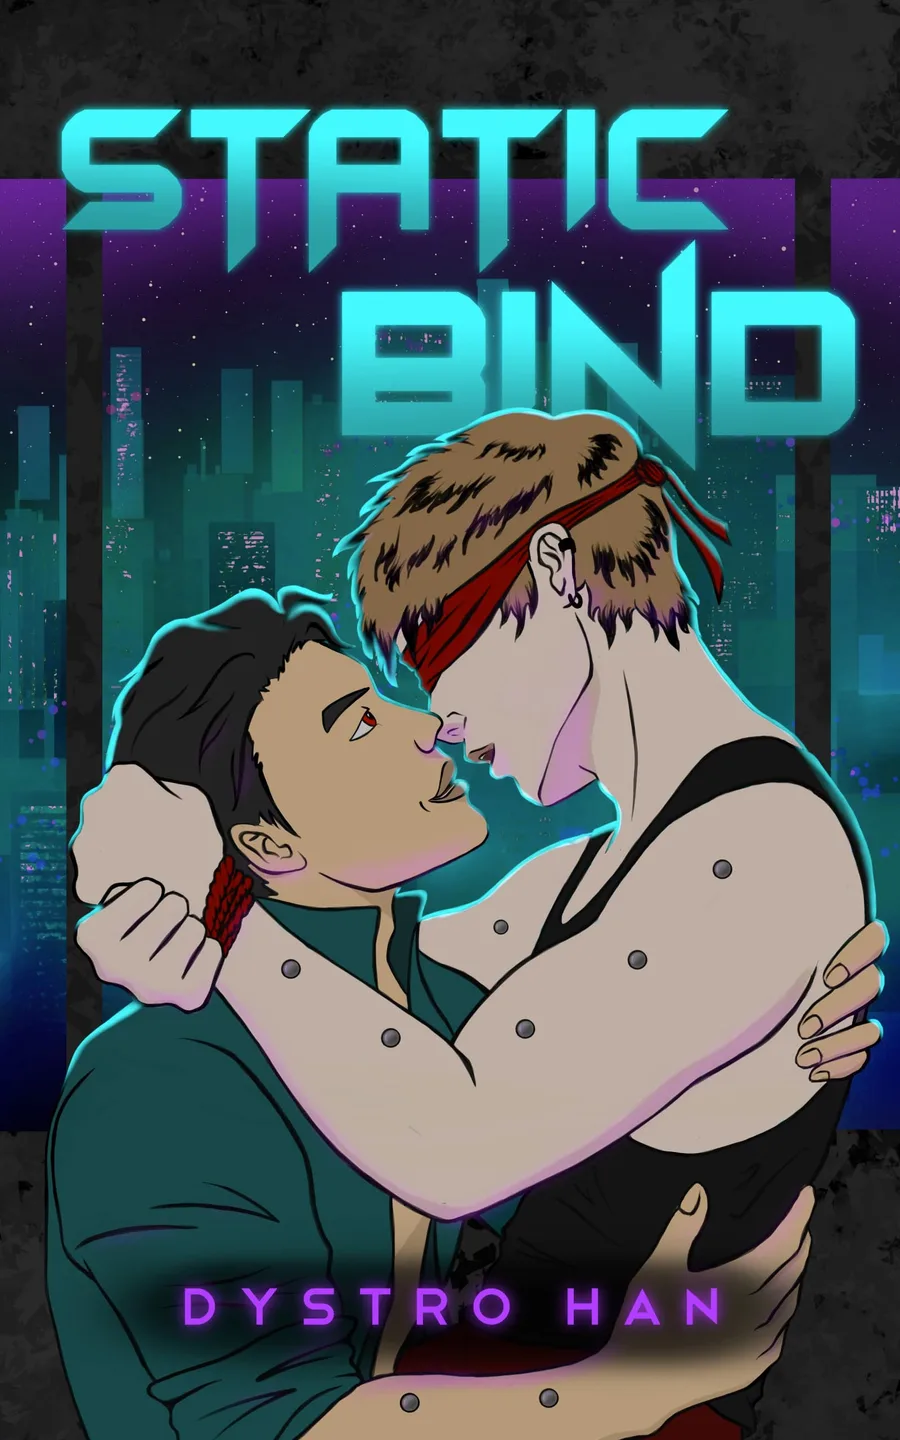
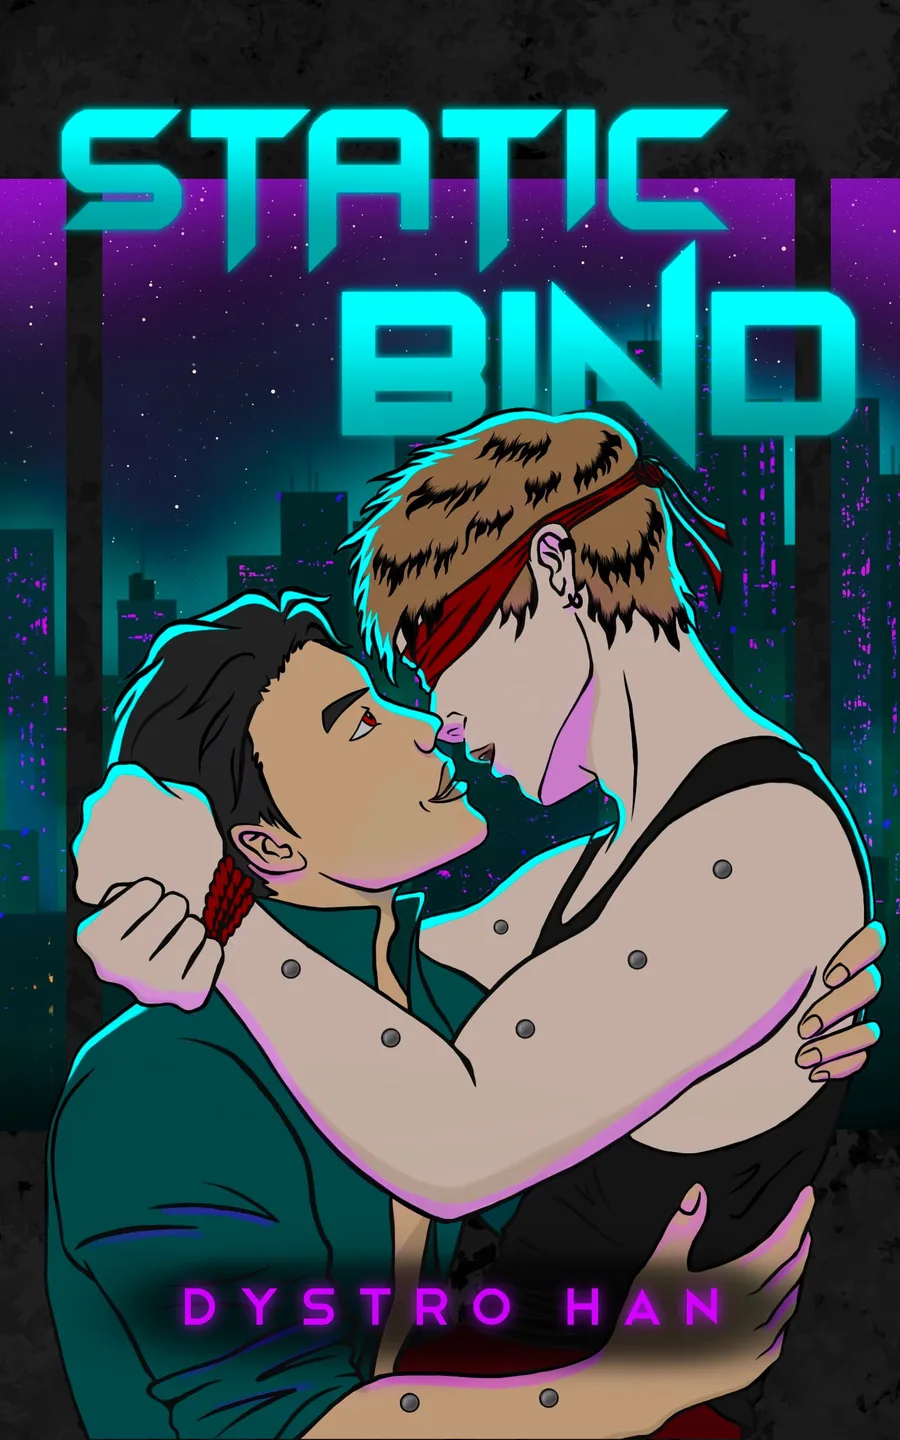
add content, update cover

diff --git a/app/lib/books.ts b/app/lib/books.ts
@@ -37,7 +37,7 @@ export type Edition = {
   retailerLinks: RetailerLink[];
 };
 
-export type BookStatus = "ARCs Available" | "Available Now" | "Preorder" | "Coming Soon";
+export type BookStatus = "ARCs Available" | "ALCs Available" | "Available Now" | "Preorder" | "Coming Soon";
 
 export type Series = {
   slug: string;
@@ -95,16 +95,17 @@ export const BOOKS: Book[] = [
     shortTitle: "Static Bind",
     seriesSlug: "hack-and-harrow",
     seriesPosition: null,
-    status: "ARCs Available",
+    status: "Available Now",
     releaseDate: "September 14, 2026",
     blurb: "Two dangerous mercenaries on the run make a sexy wager on an impromptu side job and avoid having revelations about their hopeless emotional entanglement with each other. Explore the world of Hack & Harrow with this standalone short.",
     description:
-      "**Two fugitive mercenaries. One steamy wager. Enough denial to reduce competent killers to obsessive idiots.** \n\n It's been a long day. Tiernan just wants to settle in for the night, maybe have an emotionally detached bang with his unlikely, smokin' hot ally, and take a long, luxurious bath… not that he has access to a bathtub. So of course Danil has to drag things out by proposing this dumb kinky bet that pits them against each other in an unscheduled side heist. That smartass enigma of a hitman knows Tiernan can't turn down a little competition, no matter how tired he is.\n\n Danil has always been a makeout guy. Sure, sex is great, but there's just something electrifying about the ridiculous act of mashing your face into someone else's. Just his luck that his unbelievably sexy nemesis-with-benefits is all but allergic to kissing. Their time on the run together has been a thrill -- Tiernan is lethally adept, holds his own against Danil's nonstop heckling, and is absolutely wild in bed. If only there were about five hundred times more kissing, then this would be the perfect temporary arrangement. He couldn't possibly want any more out of this, right? \n\n Static Bind is a high-heat, emotionally messy, and danger-packed bonus story from an multi-part action-romance series set in dystopian cyberpunk Boston, starring these two violently unhinged men who would rather be tied up than face their feelings.",
+      // "**Two fugitive mercenaries. One steamy wager. Enough denial to reduce competent killers to obsessive idiots.** \n\n It's been a long day. Tiernan just wants to settle in for the night, maybe have an emotionally detached bang with his unlikely, smokin' hot ally, and take a long, luxurious bath… not that he has access to a bathtub. So of course Danil has to drag things out by proposing this dumb kinky bet that pits them against each other in an unscheduled side heist. That smartass enigma of a hitman knows Tiernan can't turn down a little competition, no matter how tired he is.\n\n Danil has always been a makeout guy. Sure, sex is great, but there's just something electrifying about the ridiculous act of mashing your face into someone else's. Just his luck that his unbelievably sexy nemesis-with-benefits is all but allergic to kissing. Their time on the run together has been a thrill -- Tiernan is lethally adept, holds his own against Danil's nonstop heckling, and is absolutely wild in bed. If only there were about five hundred times more kissing, then this would be the perfect temporary arrangement. He couldn't possibly want any more out of this, right? \n\n Static Bind is a high-heat, emotionally messy, and danger-packed bonus story from an multi-part action-romance series set in dystopian cyberpunk Boston, starring these two violently unhinged men who would rather be tied up than face their feelings.",
+      "**Static Bind is a standalone short story introduction to the Hack & Harrow series, which features Danil and Tiernan as the main characters for the duration of the 8-installment saga. Get a taste for the world, the action, and the chemistry in this spicy, snack-sized story!**\n\n**Two fugitive mercenaries. One steamy wager. Enough denial to reduce competent killers to obsessive idiots.**\n\nIt’s been a long day. Tiernan just wants to settle in for the night, maybe have an emotionally detached bang with his unlikely, smokin' hot ally, and take a long, luxurious bath… not that he has access to a bathtub. So of course Danil has to drag things out by proposing this dumb kinky bet that pits them against each other in an unscheduled side heist. That smartass enigma of a hitman knows Tiernan can’t turn down a little competition, no matter how tired he is.\n\nDanil has always been a makeout guy. Sure, sex is great, but there's just something electrifying about the ridiculous act of mashing your face into someone else's. Just his luck that his unbelievably sexy nemesis-with-benefits is all but allergic to kissing. Their time on the run together has been a thrill – Tiernan is lethally adept, holds his own against Danil's nonstop heckling, and is absolutely wild in bed. If only there were about five hundred times more kissing, then this would be the perfect temporary arrangement. He couldn't possibly want any more out of this, right?\n\nStatic Bind is a high-heat, emotionally messy, and danger-packed bonus story from an multi-part action-romance series set in dystopian cyberpunk Boston, starring these two violently unhinged men who would rather be tied up than face their feelings.\n\n^^**Tropes**@@$idiots in love$nonstop banter$(ex) rivals with benefits$sarcastic panther x goofy doberman$diametrically opposed intimacy needs$morally gray couple$flirting through violence$partners/rivals in crime$caretaking$obsession$competence attraction$progression and level-up mechanics@@",
     isbn13: { display: "979-8-952631-00-7 (ebook)", value: "9798952631007" },
     coverImage: "/img/books/hack-and-harrow/static-bind_cover_art.jpg",
     coverImageThumb: "/img/books/hack-and-harrow/static-bind_cover_art_small.webp",
     coverImageAlt:
-      "Static Bind ARC cover art: two men entangled together, one with a glowing red eye, against a red glitch-effect cyberpunk cityscape",
+      "Static Bind cover art: two men entangled together, one with a glowing red eye, against a red glitch-effect cyberpunk cityscape",
     coverIsPlaceholder: false,
     keywords: [
       "Static Bind: idiots in love banter",

diff --git a/app/components/formatted-text.tsx b/app/components/formatted-text.tsx
@@ -10,6 +10,13 @@ function renderInline(text: string) {
     ) : 
     part.startsWith("%%") && part.endsWith("%%") ? (
       <i key={i}>{part.slice(2, -2)}</i>
+    ) : 
+    part.startsWith("@@") && part.endsWith("@@") ? (
+      <ul className="list-disc pl-4 pt-2" key={i}>        
+        {part.slice(2, -2).split("$").map((p, j) => (
+          p != "" && p !== " " ? <li key={j}>{p}</li> : null
+        ))}
+      </ul>
     ) : (
       part
     )
@@ -35,9 +42,12 @@ export function FormattedText({ text, className }: FormattedTextProps) {
   const paragraphs = text.trim().split(/\n{2,}/);
 
   return (
-    <div className={className ? `space-y-3 ${className}` : "space-y-3"}>
+    <div className={className ? `space-y-4 ${className}` : "space-y-4"}>
       {paragraphs.map((paragraph, i) => (
-        <p key={i}>{renderInline(paragraph)}</p>
+        paragraph.startsWith("^^") ?
+          <div key={i} className="pt-2">{renderInline(paragraph.slice(2))}</div>
+        :
+          <p key={i}>{renderInline(paragraph)}</p>
       ))}
     </div>
   );

diff --git a/app/books/[slug]/page.tsx b/app/books/[slug]/page.tsx
@@ -87,7 +87,7 @@ export default async function BookPage({ params }: Props) {
           / <span className="text-foreground">{book.title}</span>
         </nav>
 
-        <div className="flex flex-col justify-center items-center lg:grid gap-10 lg:grid-cols-[320px_1fr]">
+        <div className="flex flex-col justify-center items-start lg:grid gap-10 lg:grid-cols-[320px_1fr]">
           <BookCover image={book.coverImageThumb} alt={book.coverImageAlt} isPlaceholder={book.coverIsPlaceholder}/>
 
           <div className="flex flex-col gap-5">
@@ -147,7 +147,7 @@ export default async function BookPage({ params }: Props) {
                 variant="outline"
                 className="shrink-0 self-center lg:self-start mt-8"
               >
-                Apply to be an ARC Reader
+                Get Access to the Audiobook ALC
               </Button>
             )}
           </div>

diff --git a/app/components/featured-book-banner.tsx b/app/components/featured-book-banner.tsx
@@ -64,7 +64,7 @@ export function FeaturedBookBanner({ book, series }: FeaturedBookBannerProps) {
           variant="outline"
           className="shrink-0 self-start sm:self-end"
         >
-          Read about Static Bind
+          More about Static Bind
         </Button>
         {arcLink &&
           <Button
@@ -73,7 +73,7 @@ export function FeaturedBookBanner({ book, series }: FeaturedBookBannerProps) {
             variant="outline"
             className="shrink-0 self-start sm:self-end"
           >
-            Apply to be an ARC Reader
+            Get Access to the Audiobook ALC
           </Button>
         }
       </div>

diff --git a/app/not-found.tsx b/app/not-found.tsx
@@ -7,11 +7,8 @@ import { GlowPanel } from "./components/glow-panel"
 import { NewsletterForm } from "./components/newsletter-form"
 
 export const metadata: Metadata = {
-   title: "Thank you for being an ARC reader",
-   description: "Thank you for reading! Here's where else you can find Dystro Han.",
-   alternates: {
-      canonical: "/arc-connect",
-   },
+   title: "Page Not Found",
+   description: "Page Not Found! Explore Dysroh's Website in the Navigation Bar",
    robots: {
       index: false,
       follow: true,

diff --git a/app/sb-connect/page.tsx b/app/sb-connect/page.tsx
@@ -7,10 +7,10 @@ import { GlowPanel } from "../components/glow-panel"
 import { NewsletterForm } from "../components/newsletter-form"
 
 export const metadata: Metadata = {
-   title: "Thank you for being an ARC reader",
+   title: "Thank you for reading Static Bind",
    description: "Thank you for reading! Here's where else you can find Dystro Han.",
    alternates: {
-      canonical: "/arc-connect",
+      canonical: "/sb-connect",
    },
    robots: {
       index: false,
